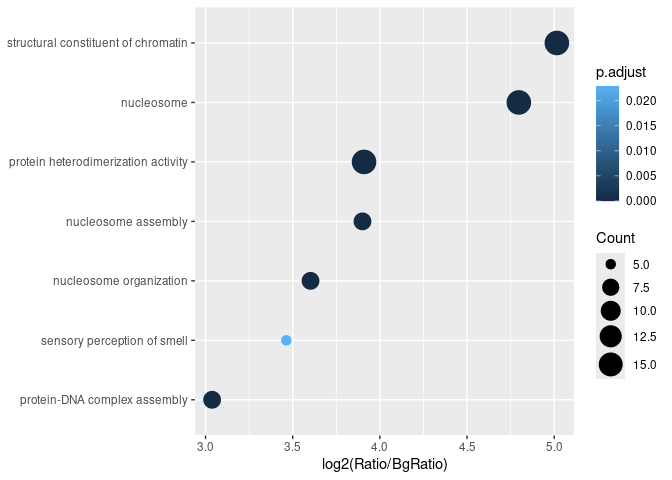
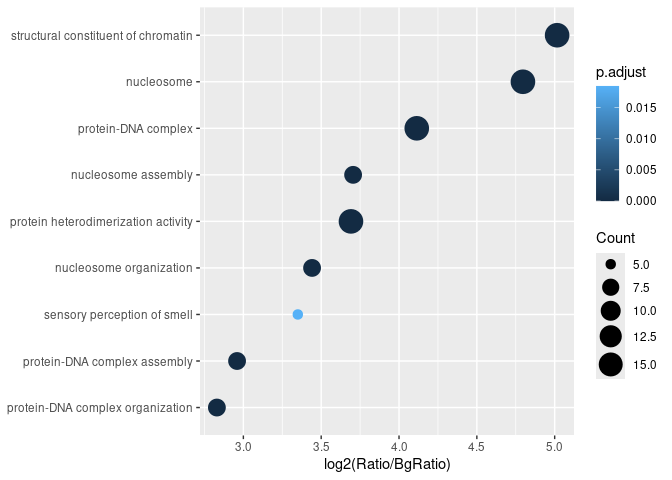
Updated example results in the development version of Bioconductor

diff --git a/README.md b/README.md
@@ -82,24 +82,45 @@ The overrepresented GO terms are as follows:
 
 ``` r
 print(goago@result)
-#>   ONTOLOGY         ID                         Description Count       Ratio
-#> 1       BP GO:0034728             nucleosome organization     8 0.009864365
-#> 2       BP GO:0006334                 nucleosome assembly     8 0.009864365
-#> 3       BP GO:0065004        protein-DNA complex assembly     8 0.009864365
-#> 4       CC GO:0000786                          nucleosome    16 0.019728730
-#> 5       MF GO:0030527 structural constituent of chromatin    16 0.019728730
-#> 6       MF GO:0046982 protein heterodimerization activity    16 0.019728730
-#> 7       BP GO:0007608         sensory perception of smell     5 0.006165228
-#> 8       MF GO:0023023         MHC protein complex binding     4 0.004932182
-#>        BgRatio pvalue p.adjust     qvalue
-#> 1 0.0008122072  0e+00 0.000000 0.00000000
-#> 2 0.0006606658  0e+00 0.000000 0.00000000
-#> 3 0.0012011097  0e+00 0.000000 0.00000000
-#> 4 0.0007096178  0e+00 0.000000 0.00000000
-#> 5 0.0006099877  0e+00 0.000000 0.00000000
-#> 6 0.0013130703  0e+00 0.000000 0.00000000
-#> 7 0.0005589396  2e-04 0.022925 0.01918421
-#> 8 0.0003787916  2e-04 0.022925 0.01918421
+#>    ONTOLOGY         ID
+#> 1        BP GO:0034728
+#> 2        BP GO:0006334
+#> 3        BP GO:0071824
+#> 4        BP GO:0065004
+#> 5        CC GO:0000786
+#> 6        CC GO:0032993
+#> 7        MF GO:0030527
+#> 8        MF GO:0046982
+#> 9        BP GO:0050911
+#> 10       MF GO:0004984
+#> 11       BP GO:0007608
+#> 12       MF GO:0023023
+#>                                                               Description Count
+#> 1                                                 nucleosome organization     8
+#> 2                                                     nucleosome assembly     8
+#> 3                                        protein-DNA complex organization     8
+#> 4                                            protein-DNA complex assembly     8
+#> 5                                                              nucleosome    16
+#> 6                                                     protein-DNA complex    16
+#> 7                                     structural constituent of chromatin    16
+#> 8                                     protein heterodimerization activity    16
+#> 9  detection of chemical stimulus involved in sensory perception of smell     4
+#> 10                                            olfactory receptor activity     4
+#> 11                                            sensory perception of smell     5
+#> 12                                            MHC protein complex binding     4
+#>          Ratio      BgRatio pvalue   p.adjust      qvalue
+#> 1  0.009864365 0.0009080148  0e+00 0.00000000 0.000000000
+#> 2  0.009864365 0.0007563502  0e+00 0.00000000 0.000000000
+#> 3  0.009864365 0.0013872996  0e+00 0.00000000 0.000000000
+#> 4  0.009864365 0.0012680641  0e+00 0.00000000 0.000000000
+#> 5  0.019728730 0.0007101110  0e+00 0.00000000 0.000000000
+#> 6  0.019728730 0.0011393342  0e+00 0.00000000 0.000000000
+#> 7  0.019728730 0.0006098644  0e+00 0.00000000 0.000000000
+#> 8  0.019728730 0.0015272503  0e+00 0.00000000 0.000000000
+#> 9  0.004932182 0.0004277435  1e-04 0.01016000 0.008526316
+#> 10 0.004932182 0.0004277435  1e-04 0.01016000 0.008526316
+#> 11 0.006165228 0.0006046856  2e-04 0.01847273 0.015502392
+#> 12 0.004932182 0.0003940814  5e-04 0.04233333 0.035526316
 ```
 
 Note that some of the *p*-values have the value of zero, which means
@@ -128,7 +149,7 @@ distributions, empirical *p*-values were calculated:
 
 ``` r
 RidgePlot(goago)
-#> Picking joint bandwidth of 0.115
+#> Picking joint bandwidth of 0.12
 ```
 
 <img src="man/figures/README-ridgeplot-1.png" width="100%" />
